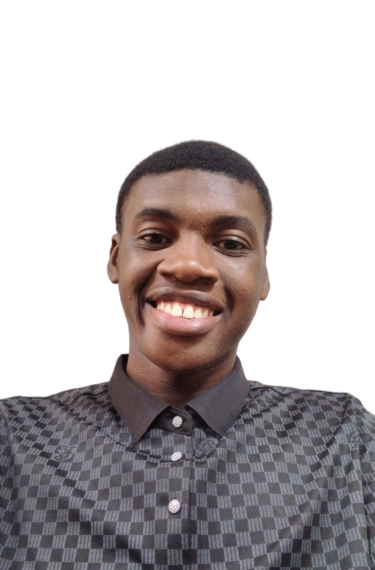
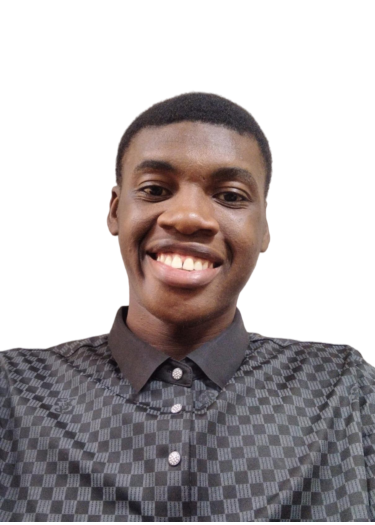
Update UI assets for Derick and Emma; adjust image height in MeetTheTeam component

diff --git a/src/components/MeetTheTeam.jsx b/src/components/MeetTheTeam.jsx
@@ -71,7 +71,7 @@ const MeetTheTeam = () => {
                 <img
                   src={member.image}
                   alt={member.name}
-                  className="w-full h-[25rem] md:h-60 object-cover rounded-xl group-hover:scale-105 transition-transform duration-300 shadow-lg"
+                  className="w-full h-90 md:h-60 object-cover rounded-xl group-hover:scale-105 transition-transform duration-300 shadow-lg"
                 />
               </div>
               <div className="text-center space-y-2">
